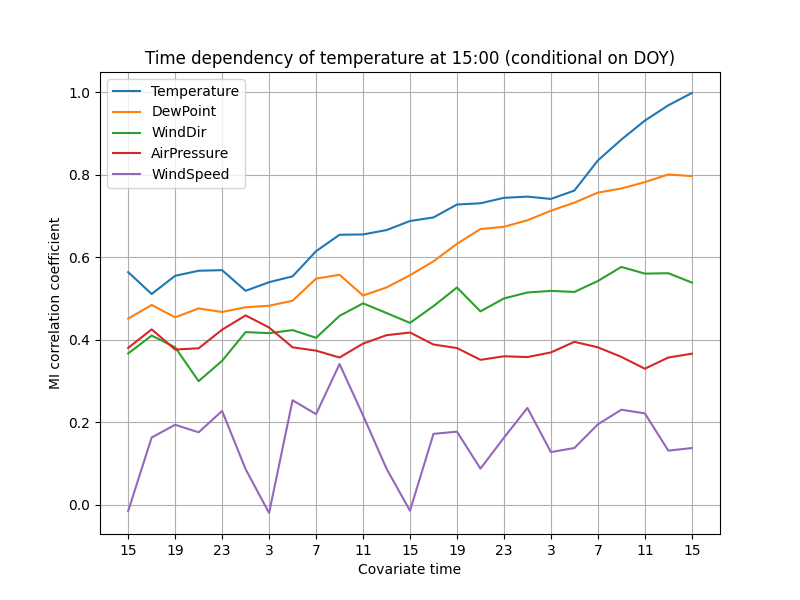
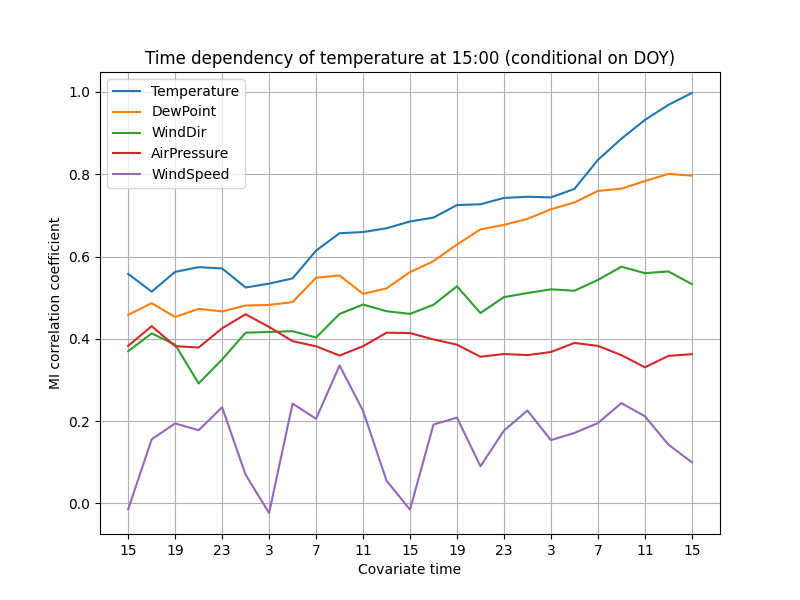
Adapt to by-default data preprocessing in docs

diff --git a/docs/kaisaniemi_casestudy.py b/docs/kaisaniemi_casestudy.py
@@ -17,10 +17,7 @@ print(data.head())
 #
 # STEP 2: Preprocess
 #
-scaled_data = (data - data.mean()) / data.std()
-
-rng = np.random.default_rng(5678)
-scaled_data += rng.normal(0, 1e-10, scaled_data.shape)
+# Nothing to be done, because the distributions are roughly symmetric
 
 
 #
@@ -32,7 +29,7 @@ afternoon_mask = (data.index.hour == 13)
 #
 # STEP 4: Plot pairwise MI
 #
-pairwise = pairwise_mi(scaled_data, mask=afternoon_mask, normalize=True)
+pairwise = pairwise_mi(data, mask=afternoon_mask, normalize=True)
 
 # Plot a matrix where the color represents the correlation coefficient.
 # We clip the color values at 0.2 because of significant random noise,
@@ -56,8 +53,8 @@ plt.savefig("casestudy_pairwise.png")
 #
 
 # Now we pass the 'cond' parameter
-pairwise_doy = pairwise_mi(scaled_data, mask=afternoon_mask,
-    cond=scaled_data["DayOfYear"], normalize=True)
+pairwise_doy = pairwise_mi(data, mask=afternoon_mask,
+    cond=data["DayOfYear"], normalize=True)
 
 # The same plotting code as above
 fig, ax = plt.subplots(figsize=(8,6))
@@ -82,8 +79,8 @@ covariates = ["Temperature", "DewPoint", "WindDir", "AirPressure", "WindSpeed"]
 
 # Lag up to two days with 2-hour spacing
 lags = np.arange(0, 2*24 + 1, 2)
-temp = estimate_mi(scaled_data["Temperature"], scaled_data[covariates], lags,
-    cond=scaled_data["DayOfYear"], mask=afternoon_mask, normalize=True)
+temp = estimate_mi(data["Temperature"], data[covariates], lags,
+    cond=data["DayOfYear"], mask=afternoon_mask, normalize=True)
 
 # Plot the MI correlation coefficients as a line plot
 fig, ax = plt.subplots(figsize=(8,6))
@@ -109,10 +106,10 @@ plt.savefig("casestudy_lags.png")
 #
 
 # Do two more estimations and average the three runs
-temp_12 = estimate_mi(scaled_data["Temperature"], scaled_data[covariates], lags,
-    cond=scaled_data["DayOfYear"], mask=(data.index.hour == 12), normalize=True)
-temp_14 = estimate_mi(scaled_data["Temperature"], scaled_data[covariates], lags,
-    cond=scaled_data["DayOfYear"], mask=(data.index.hour == 14), normalize=True)
+temp_12 = estimate_mi(data["Temperature"], data[covariates], lags,
+    cond=data["DayOfYear"], mask=(data.index.hour == 12), normalize=True)
+temp_14 = estimate_mi(data["Temperature"], data[covariates], lags,
+    cond=data["DayOfYear"], mask=(data.index.hour == 14), normalize=True)
 
 temp_avg = (temp_12 + temp + temp_14) / 3
 

diff --git a/docs/kaisaniemi.md b/docs/kaisaniemi.md
@@ -40,16 +40,13 @@ the air pressure is in hehtopascals (millibars) and the wind speed in meters per
 2015-01-01 04:00:00       1009.7          3.6       2.7    267.0        3.5       1.17
 ```
 
-To make the MI estimation more accurate, we should scale the variables to unit variance.
-We should also add very low-amplitude noise.
+To make the MI estimation more accurate, we should ensure that the variables have
+roughly symmetric distributions.
+By visual inspection (not shown here), we don't need to transform anything.
+`ennemi` automatically rescales the variables to unit variance and
+adds low-amplitude noise (with fixed random seed) as long as we don't
+override the `preprocess` parameter.
 The reasons for these steps are discussed on the [Potential issues page](potential-issues.md).
-
-```python
-scaled_data = (data - data.mean()) / data.std()
-
-rng = np.random.default_rng(5678)
-scaled_data += rng.normal(0, 1e-10, scaled_data.shape)
-```
 
 As a final preprocessing step, we create a mask that selects only the observations
 at 15:00 local time (13:00 UTC).
@@ -69,7 +66,7 @@ We pass the `normalize` parameter to transform the MI values to a correlation
 coefficient scale (0 to 1, sign of correlation not determined).
 
 ```python
-pairwise = pairwise_mi(scaled_data, mask=afternoon_mask, normalize=True)
+pairwise = pairwise_mi(data, mask=afternoon_mask, normalize=True)
 
 # Plot a matrix where the color represents the correlation coefficient.
 # We clip the color values at 0.2 because of significant random noise,
@@ -98,8 +95,8 @@ in our case this variable is DayOfYear.
 
 ```python
 # Now we pass the 'cond' parameter
-pairwise_doy = pairwise_mi(scaled_data, mask=afternoon_mask,
-    cond=scaled_data["DayOfYear"], normalize=True)
+pairwise_doy = pairwise_mi(data, mask=afternoon_mask,
+    cond=data["DayOfYear"], normalize=True)
 
 # The same plotting code as above
 fig, ax = plt.subplots(figsize=(8,6))
@@ -145,8 +142,8 @@ covariates = ["Temperature", "DewPoint", "WindDir", "AirPressure", "WindSpeed"]
 
 # Lag up to two days with 2-hour spacing
 lags = np.arange(0, 2*24 + 1, 2)
-temp = estimate_mi(scaled_data["Temperature"], scaled_data[covariates], lags,
-    cond=scaled_data["DayOfYear"], mask=afternoon_mask, normalize=True)
+temp = estimate_mi(data["Temperature"], data[covariates], lags,
+    cond=data["DayOfYear"], mask=afternoon_mask, normalize=True)
 
 # Plot the MI correlation coefficients as a line plot
 fig, ax = plt.subplots(figsize=(8,6))
@@ -192,10 +189,10 @@ We can then repeat the estimation with two more masks.
 
 ```python
 # Do two more estimations and average the three runs
-temp_12 = estimate_mi(scaled_data["Temperature"], scaled_data[covariates], lags,
-    cond=scaled_data["DayOfYear"], mask=(data.index.hour == 12), normalize=True)
-temp_14 = estimate_mi(scaled_data["Temperature"], scaled_data[covariates], lags,
-    cond=scaled_data["DayOfYear"], mask=(data.index.hour == 14), normalize=True)
+temp_12 = estimate_mi(data["Temperature"], data[covariates], lags,
+    cond=data["DayOfYear"], mask=(data.index.hour == 12), normalize=True)
+temp_14 = estimate_mi(data["Temperature"], data[covariates], lags,
+    cond=data["DayOfYear"], mask=(data.index.hour == 14), normalize=True)
 
 temp_avg = (temp_12 + temp + temp_14) / 3
 

diff --git a/docs/potential-issues.md b/docs/potential-issues.md
@@ -46,27 +46,28 @@ data = rng.multivariate_normal([0.5, 0.5], cov, size=800)
 x = np.maximum(0, data[:,0])
 y = np.maximum(0, data[:,1])
 
-print("MI:", estimate_mi(y, x))
+print("MI:", estimate_mi(y, x, preprocess=False))
 print("On one or both axes:", np.mean((x == 0) | (y == 0)))
 print("At origin:", np.mean((x == 0) & (y == 0)))
 ```
 This code prints
 ```
-MI: [[-0.49151162]]
+MI: [[-inf]]
 On one or both axes: 0.4025
 At origin: 0.22
 ```
 As many of the observations lie on the x or y axis, and most of those at $(0, 0)$,
 the algorithm produces a clearly incorrect result.
-The fix is to add
+The fix is to either add
 ```python
 x += rng.normal(0, 1e-6, size=800)
 y += rng.normal(0, 1e-6, size=800)
 ```
-before the call to `estimate_mi()`.
+before the call to `estimate_mi()`,
+or set `preprocess=True` (or remove the parameter altogether; it is true by default).
 With this fix, the code now prints
 ```
-MI: [[0.41807897]]
+MI: [[0.41881861]]
 ```
 a better approximation of the true value.
 This is still an approximation, as the true distribution is non-continuous,
@@ -107,16 +108,17 @@ data = rng.multivariate_normal([0, 0], cov, size=800)
 x = np.exp(5 * data[:,0])
 y = np.exp(data[:,1])
 
-print(estimate_mi(y, x))
+print(estimate_mi(y, x, preprocess=False))
 ```
 
 Running the code outputs
 ```
-[[0.28945921]]
+[[0.28671063]]
 ```
 
-This demonstrates that you should normalize all variables before running
+This demonstrates that you should make all variables symmetric before running
 the estimation.
+The rescaling is done by default (disabled by setting `preprocess=False`).
 Entropy is not transformation-invariant, and therefore this guidance
 does not apply to `estimate_entropy()`.
 
